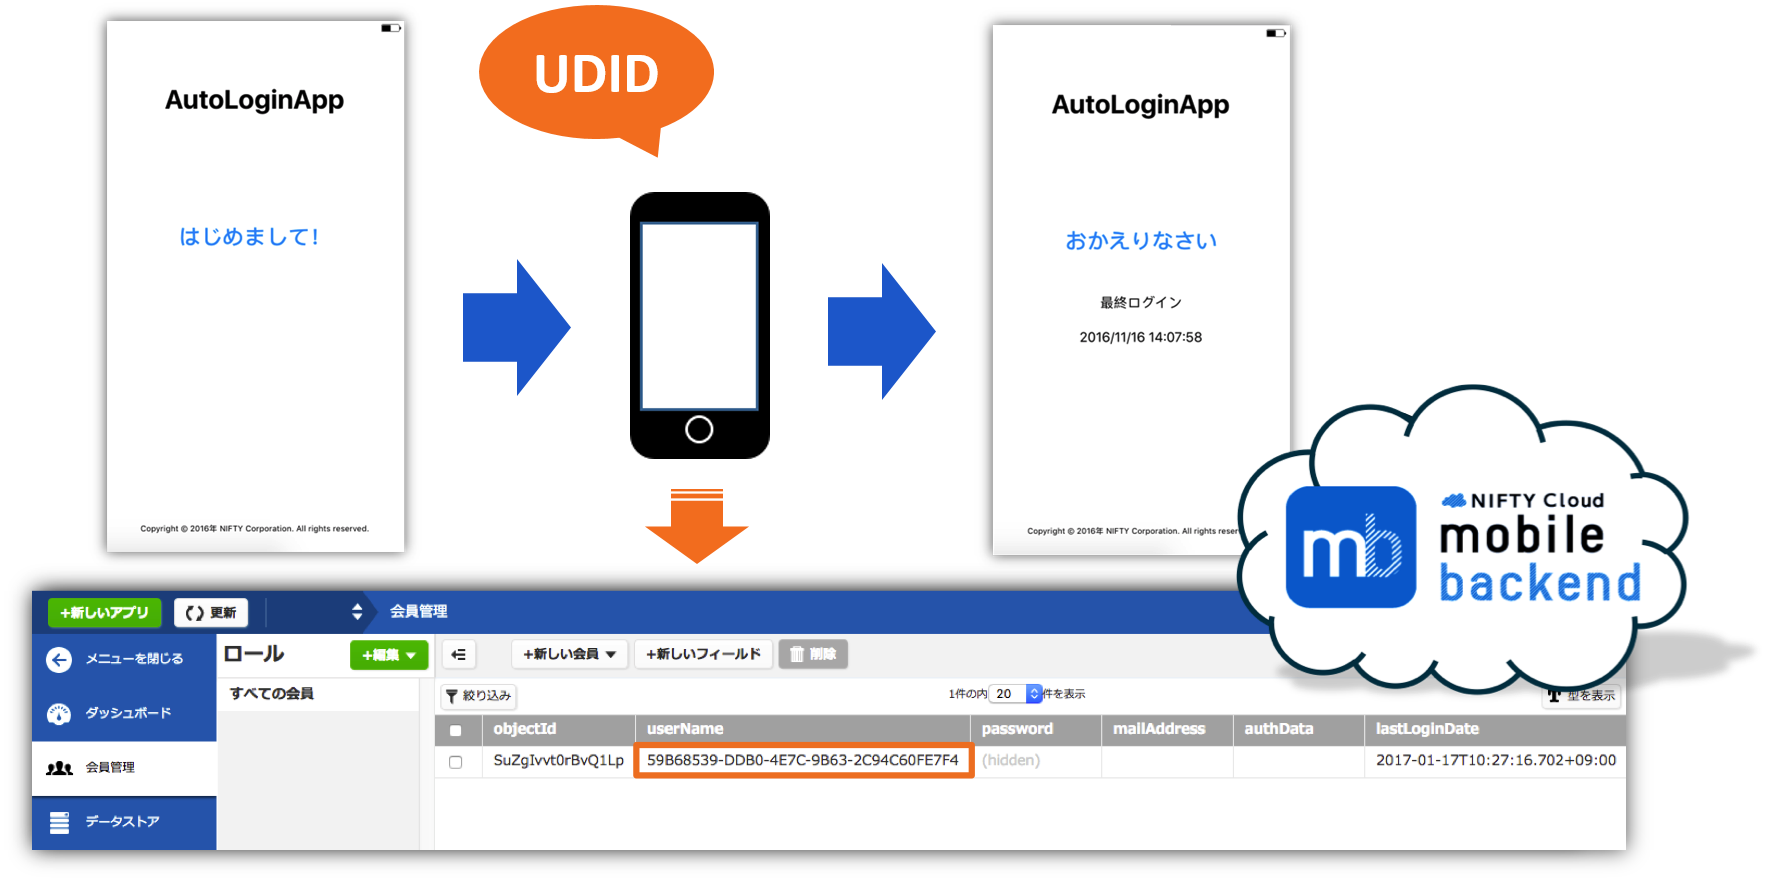
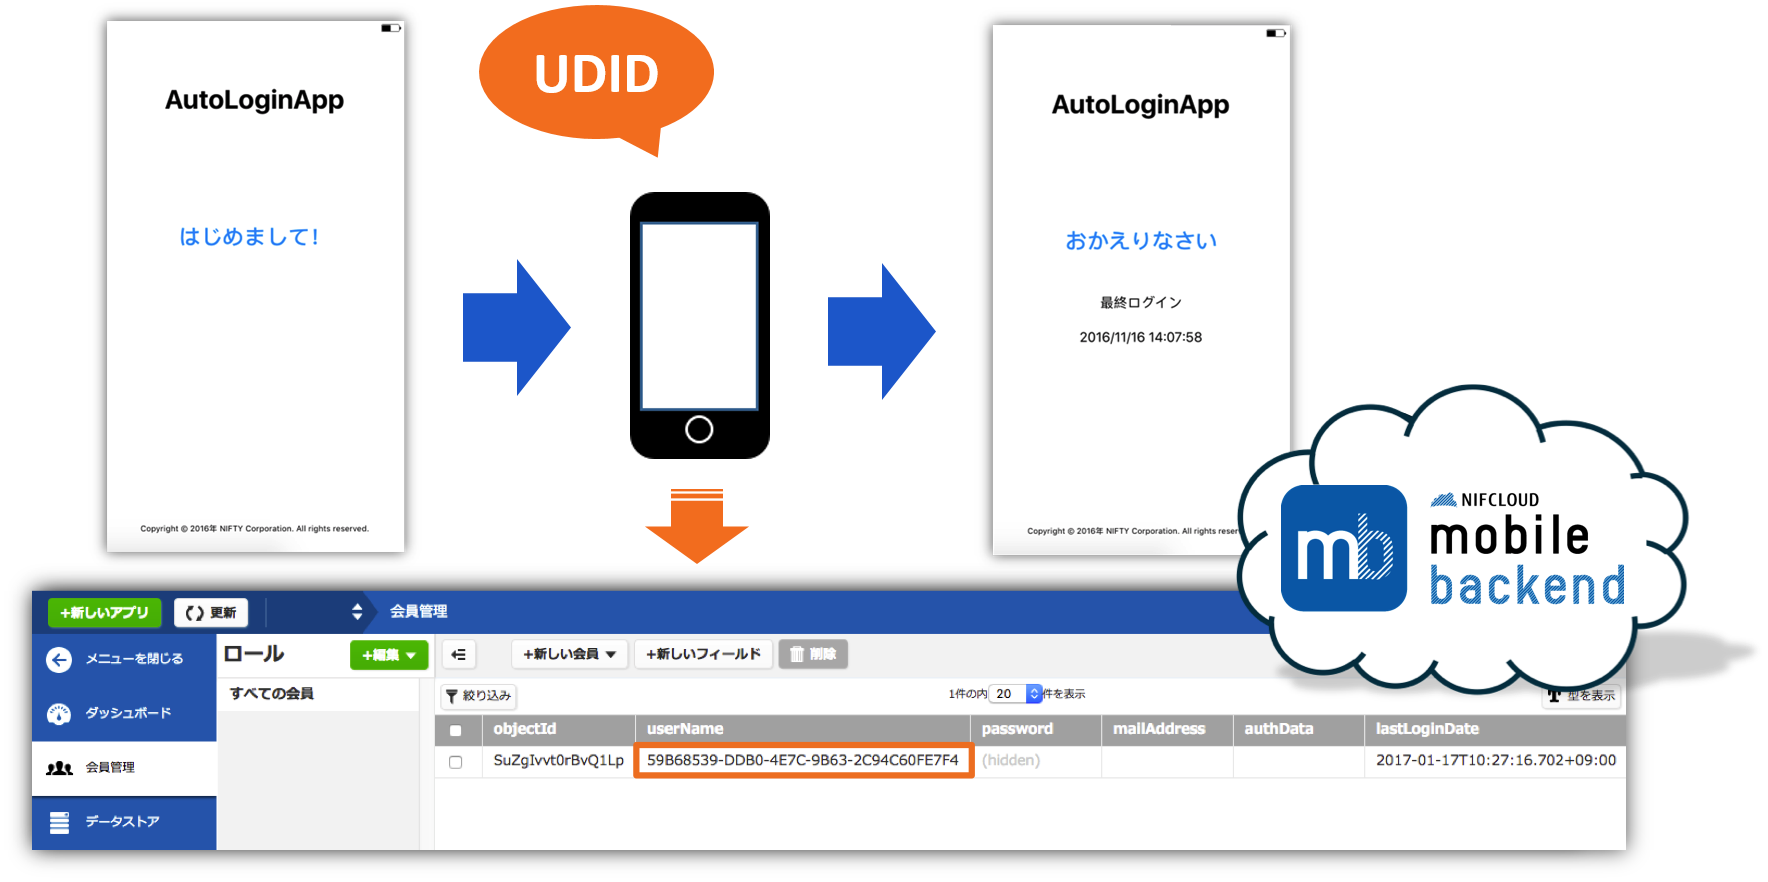
update image and readme

Changed region(s): [[0.7155, 0.551, 0.9333, 0.7041]]

diff --git a/SwiftAutoLoginApp/AppDelegate.swift b/SwiftAutoLoginApp/AppDelegate.swift
@@ -3,7 +3,7 @@
 //  SwiftAutoLoginApp
 //
 //  Created by Natsumo Ikeda on 2016/10/26.
-//  Copyright 2017 FUJITSU CLOUD TECHNOLOGIES LIMITED All Rights Reserved.
+//  Copyright 2019 FUJITSU CLOUD TECHNOLOGIES LIMITED All Rights Reserved.
 //
 
 import UIKit

diff --git a/SwiftAutoLoginApp/ViewController.swift b/SwiftAutoLoginApp/ViewController.swift
@@ -3,7 +3,7 @@
 //  SwiftAutoLoginApp
 //
 //  Created by Natsumo Ikeda on 2016/10/26.
-//  Copyright 2017 FUJITSU CLOUD TECHNOLOGIES LIMITED All Rights Reserved.
+//  Copyright 2019 FUJITSU CLOUD TECHNOLOGIES LIMITED All Rights Reserved.
 //
 
 import UIKit

diff --git a/README.md b/README.md
@@ -2,14 +2,14 @@
 ![画像1](/readme-img/001.png)
 
 ## 概要
-* [ニフティクラウドmobile backend](http://mb.cloud.nifty.com/)の『会員管理機能』を利用して、ゲームアプリによく見られる「自動ログイン機能」を実装したサンプルプロジェクトです
+* [ニフクラmobile backend](https://mbaas.nifcloud.com/)の『会員管理機能』を利用して、ゲームアプリによく見られる「自動ログイン機能」を実装したサンプルプロジェクトです
  * 「自動ログイン機能」とは、ユーザーが会員登録やログイン/ログアウトを意識することなく会員管理を行う機能です。通常の「会員管理機能」を応用して実装することが可能です。
-* 簡単な操作ですぐに [ニフティクラウドmobile backend](http://mb.cloud.nifty.com/)の機能を体験いただけます★☆
+* 簡単な操作ですぐに [ニフクラmobile backend](https://mbaas.nifcloud.com/)の機能を体験いただけます★☆
 
-## ニフティクラウドmobile backendって何？？
+## ニフクラmobile backendって何？？
 スマートフォンアプリのバックエンド機能（プッシュ通知・データストア・会員管理・ファイルストア・SNS連携・位置情報検索・スクリプト）が**開発不要**、しかも基本**無料**(注1)で使えるクラウドサービス！
 
-注1：詳しくは[こちら](http://mb.cloud.nifty.com/price.htm)をご覧ください
+注1：詳しくは[こちら](https://mbaas.nifcloud.com/function.htm)をご覧ください
 
 ![画像2](/readme-img/002.png)
 
@@ -24,19 +24,19 @@
 ※上記内容で動作確認をしています。
 
 ## 手順
-### 1. [ ニフティクラウドmobile backend ](http://mb.cloud.nifty.com/)の会員登録・ログインとアプリの新規作成
+### 1. [ ニフクラmobile backend ](https://mbaas.nifcloud.com/)の会員登録・ログインとアプリの新規作成
 * 上記リンクから会員登録（無料）をします。登録ができたらログインをすると下図のように「アプリの新規作成」画面が出るのでアプリを作成します
 
 ![画像3](/readme-img/003.png)
 
 * アプリ作成されると下図のような画面になります
-* この２種類のAPIキー（アプリケーションキーとクライアントキー）はXcodeで作成するiOSアプリに[ニフティクラウドmobile backend](http://mb.cloud.nifty.com/)を紐付けるために使用します
+* この２種類のAPIキー（アプリケーションキーとクライアントキー）はXcodeで作成するiOSアプリに[ニフクラmobile backend](https://mbaas.nifcloud.com/)を紐付けるために使用します
 
 ![画像4](/readme-img/004.png)
 
 ### 2. GitHubからサンプルプロジェクトのダウンロード
 * 下記リンクをクリックしてプロジェクトをMacにダウンロードします
- * __[SwiftAutoLoginApp](https://github.com/natsumo/SwiftAutoLoginApp/archive/master.zip)__
+ * __[SwiftAutoLoginApp](https://github.com/NIFCLOUD-mbaas/SwiftAutoLoginApp/archive/master.zip)__
 
 ### 3. Xcodeでアプリを起動
 * ダウンロードしたフォルダを開き、「`SwiftAutoLoginApp.xcodeproj`」をダブルクリックしてXcode開きます
@@ -51,7 +51,7 @@
 
 ### 4. APIキーの設定
 * `AppDelegate.swift`を編集します
-* 先程[ニフティクラウドmobile backend](http://mb.cloud.nifty.com/)のダッシュボード上で確認したAPIキーを貼り付けます
+* 先程[ニフクラmobile backend](https://mbaas.nifcloud.com/)のダッシュボード上で確認したAPIキーを貼り付けます
 
 ![画像7](/readme-img/007.png)
 
@@ -77,12 +77,12 @@
 ![画像10](/readme-img/010.png)
 
 ##### クラウド側
-* [ニフティクラウドmobile backend](http://mb.cloud.nifty.com/)のダッシュボードを確認してみましょう
+* [ニフクラmobile backend](https://mbaas.nifcloud.com/)のダッシュボードを確認してみましょう
 * 「会員管理」の中にユーザー登録がされていることが確認できます
 
 ![画像11](/readme-img/011.png)
 
-* [ニフティクラウドmobile backend](http://mb.cloud.nifty.com/)の「ユーザー名/パスワード」を使用して会員管理を行う機能を「自動ログイン機能」へ応用しています
+* [ニフクラmobile backend](https://mbaas.nifcloud.com/)の「ユーザー名/パスワード」を使用して会員管理を行う機能を「自動ログイン機能」へ応用しています
  * ここでは、ユーザー名とパスワードとして、「端末ID（UDID）」を取得し起動時に認証を行うことで自動ログインを実現しています。
  * ダッシュボードの「userName」フィールドで登録された端末IDが確認できます。
 
@@ -97,7 +97,7 @@
 
 ![画像12](/readme-img/012.png)
 
-* [ニフティクラウドmobile backend](http://mb.cloud.nifty.com/)の会員機能では会員毎に、会員登録やログインを行うたびに更新される「updateDate」というフィールドを持ち、この値を利用して、「最終ログイン」日時の表示をするようにしています
+* [ニフクラmobile backend](https://mbaas.nifcloud.com/)の会員機能では会員毎に、会員登録やログインを行うたびに更新される「updateDate」というフィールドを持ち、この値を利用して、「最終ログイン」日時の表示をするようにしています
  * 「lastLoginDate」というフィールドに値を移して使用しています
 
 ![画像13](/readme-img/013.png)
@@ -108,8 +108,7 @@
 ここではサンプルアプリに実装済みの内容について紹介します
 
 ### SDKのインポートと初期設定
-* ニフティクラウドmobile backend のドキュメント（クイックスタート）をSwift版に書き換えたドキュメントをご用意していますので、ご活用ください
- * [SwiftでmBaaSを始めよう！(＜CocoaPods＞でuse_framewoks!を有効にした方法)](http://qiita.com/natsumo/items/57d3a4d9be16b0490965)
+* ニフクラmobile backend のドキュメント（クイックスタート）をSwift版に書き換えたドキュメントをご用意していますので、ご活用ください
 
 ### ロジック
 * `Main.storyboard`でデザインを作成し、`ViewController.swift`にロジックを書いています
@@ -216,4 +215,4 @@ class ViewController: UIViewController {
 ```
 
 * 同じ内容の【Objective-C】版もご用意しています
- * https://github.com/NIFTYCloud-mbaas/ObjcAutoLoginApp
+ * https://github.com/NIFCLOUD-mbaas/ObjcAutoLoginApp
